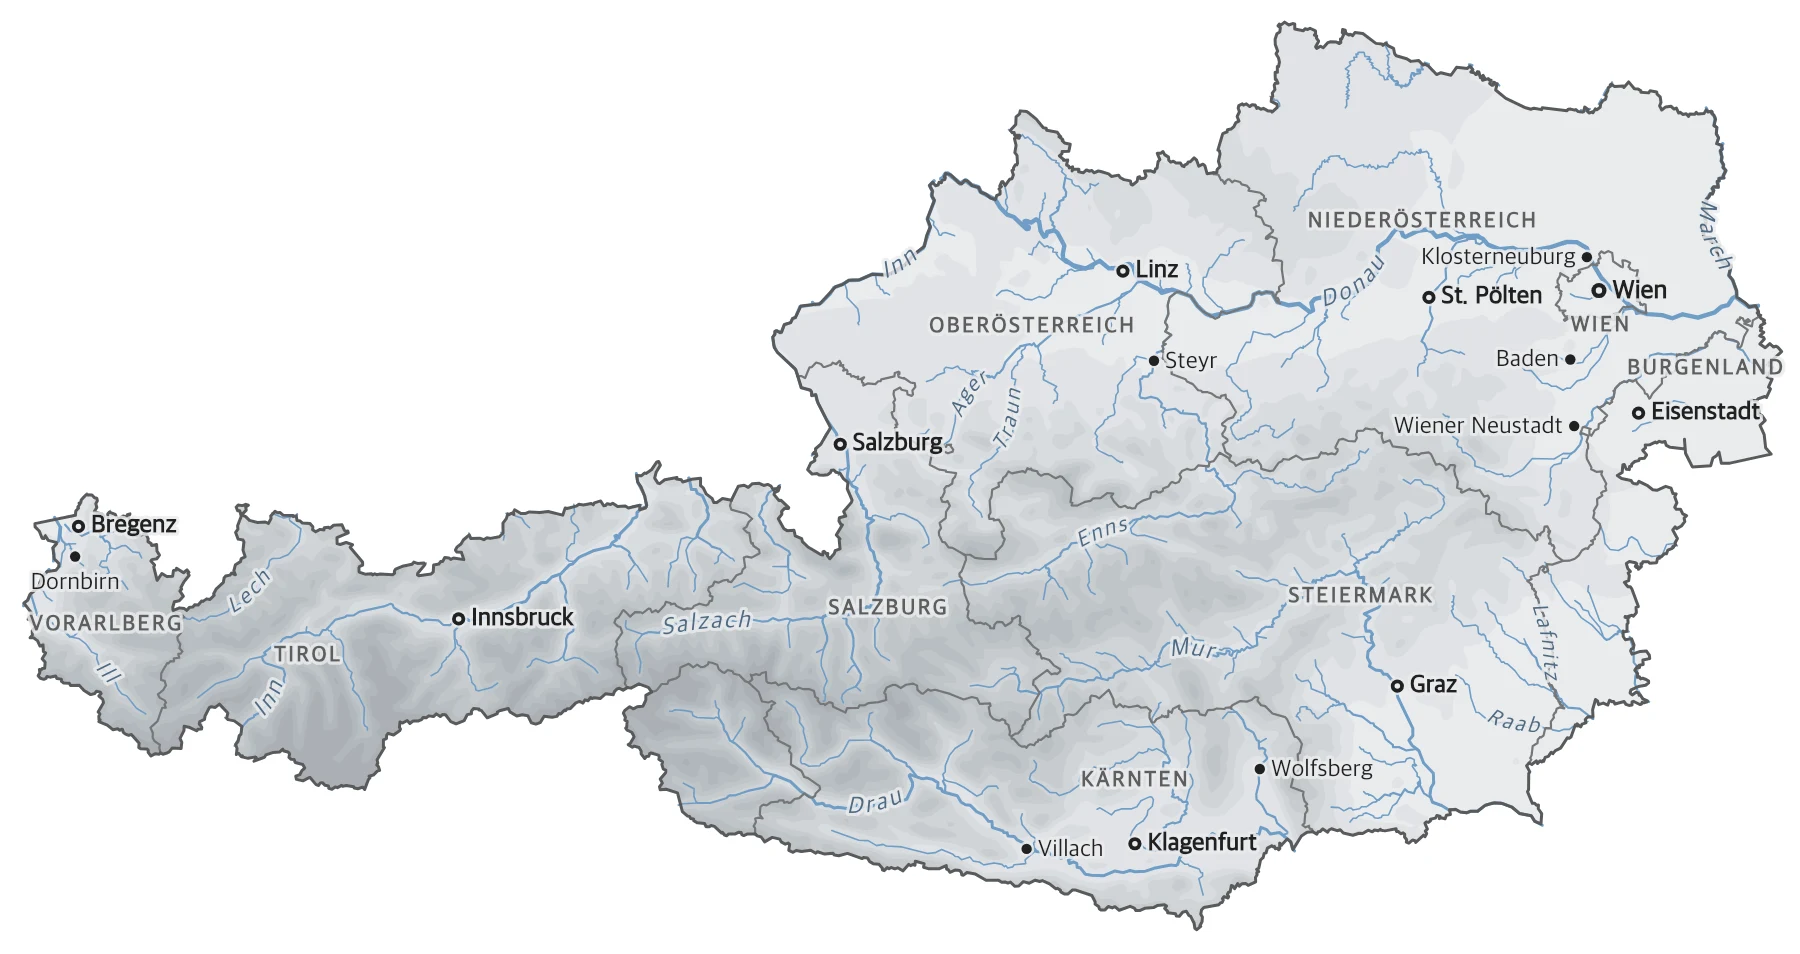
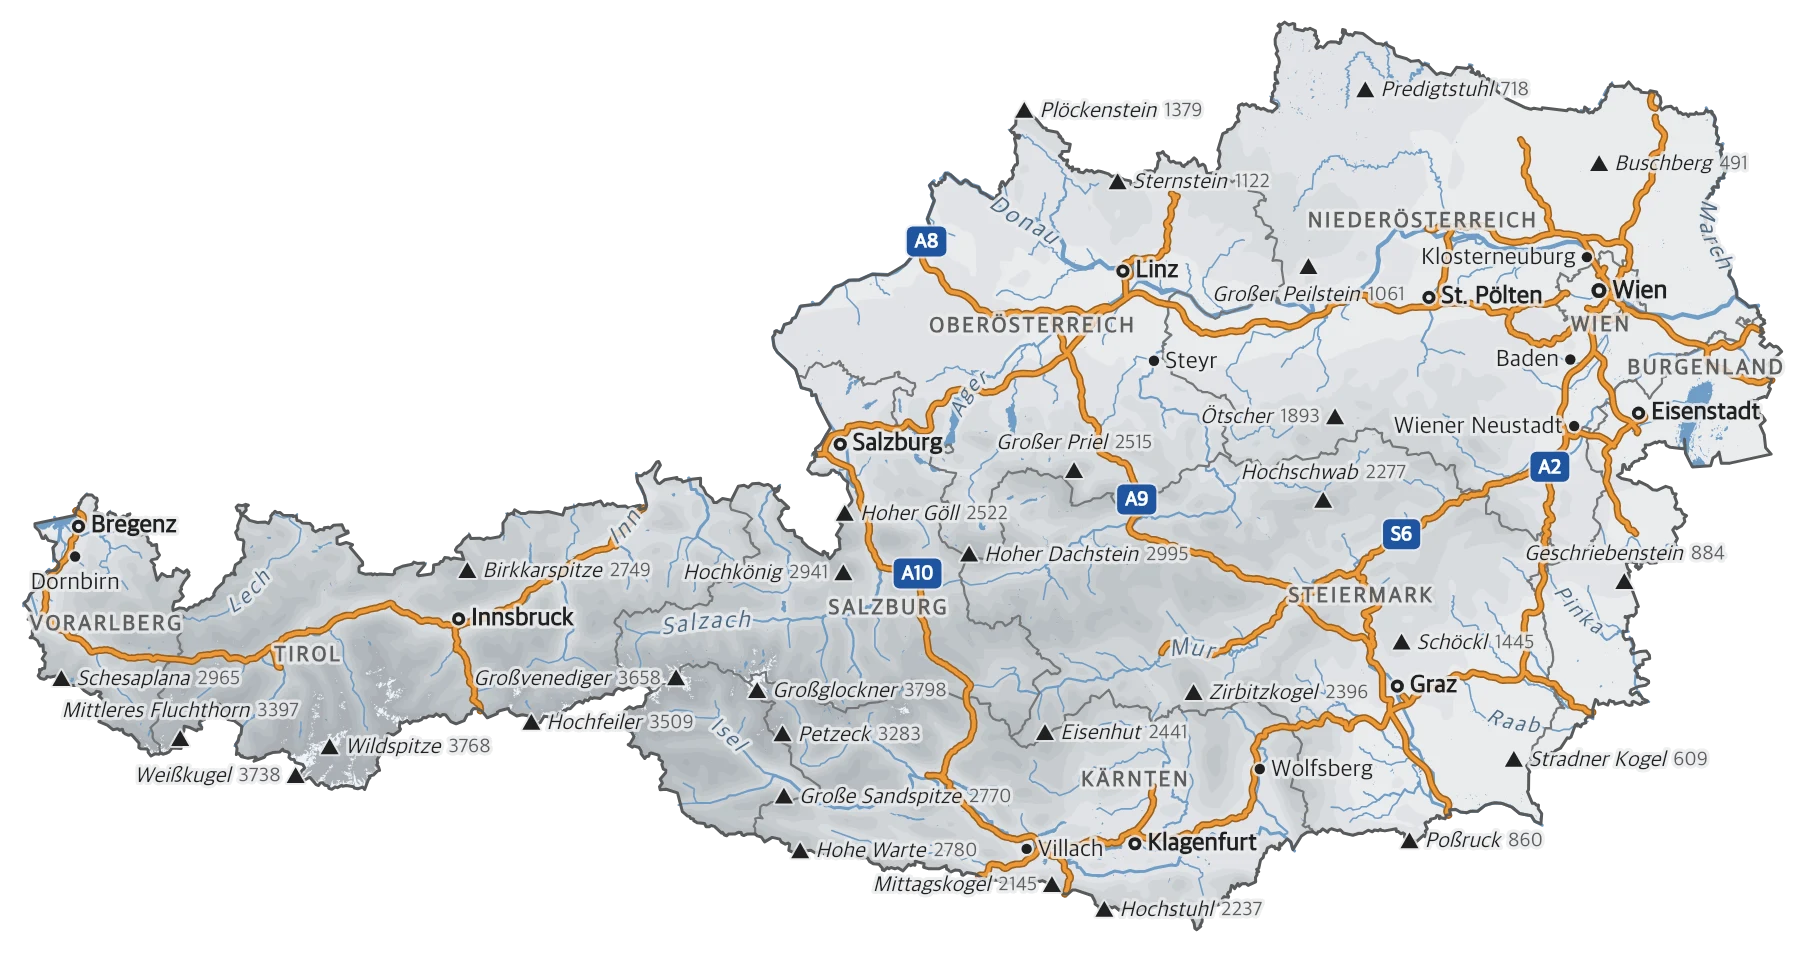
docs: redraw the README map with the new layers, transparent outside Austria
- the README image now shows glaciers, lakes, motorways with route shields
  and named peaks on top of terrain, rivers, provinces and towns
- nothing is painted beyond the national border: the canvas stays
  transparent, so the map sits directly on the page in either GitHub theme
- a dark-theme twin (preview-dark.webp) is swapped in via <picture> for
  readers on a dark colour scheme
- `npm run preview -- --readme` regenerates both images

diff --git a/README.md b/README.md
@@ -7,7 +7,10 @@
 
 A map of Austria for your Home Assistant dashboard. Switch layers on and off, zoom from the whole country down to a single municipality, and select a place to see what it is. Drawn from official Austrian open data. No integration, no account, and no request ever leaves your Home Assistant.
 
-<img src="https://raw.githubusercontent.com/rolandzeiner/austria-map-card/main/screenshots/preview.webp" alt="Map of Austria with terrain, rivers, province borders and the largest towns" />
+<picture>
+  <source media="(prefers-color-scheme: dark)" srcset="https://raw.githubusercontent.com/rolandzeiner/austria-map-card/main/screenshots/preview-dark.webp" />
+  <img src="https://raw.githubusercontent.com/rolandzeiner/austria-map-card/main/screenshots/preview.webp" alt="Map of Austria with terrain, glaciers, lakes, rivers, province borders, motorways with route shields, named peaks and the largest towns" />
+</picture>
 
 ## Features
 
